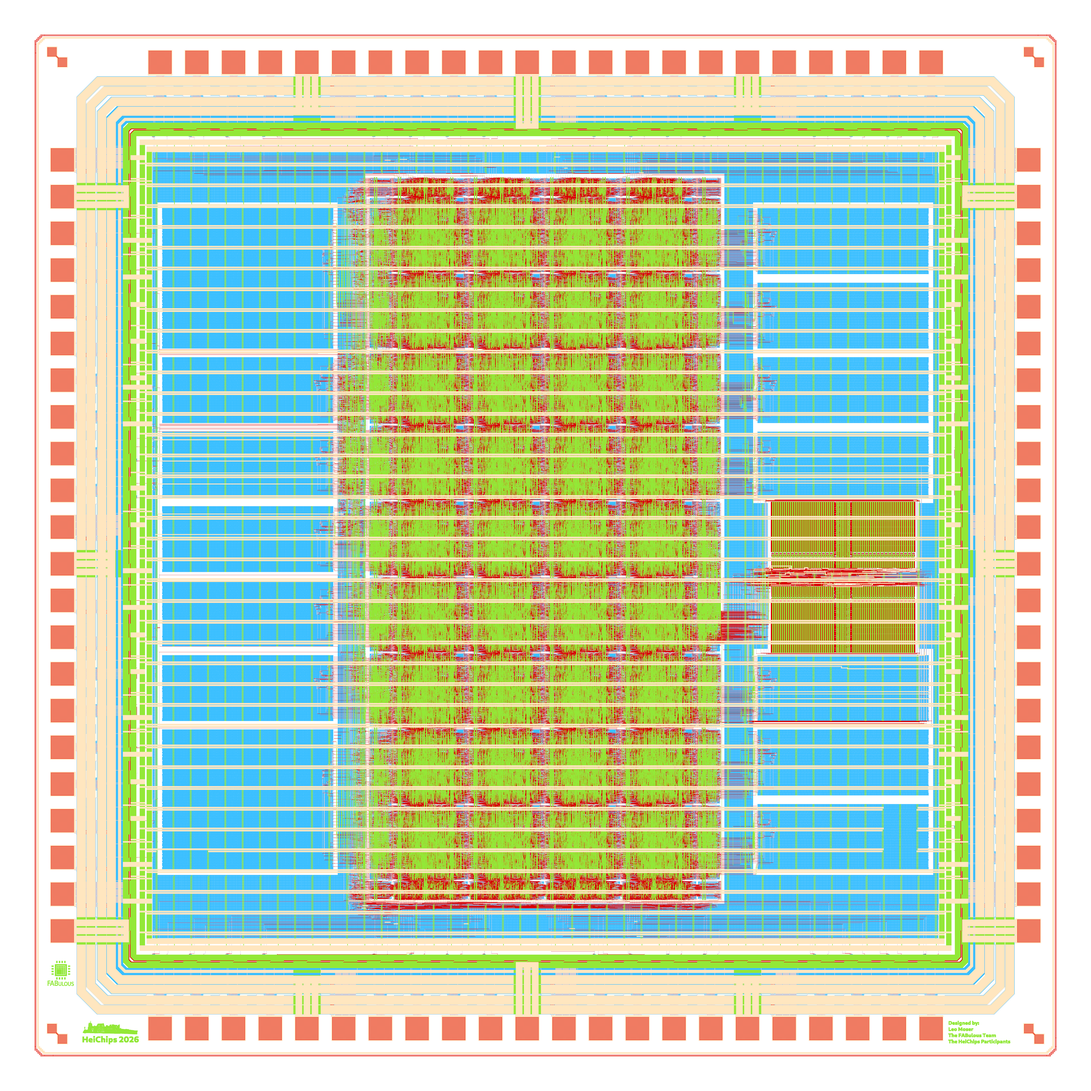
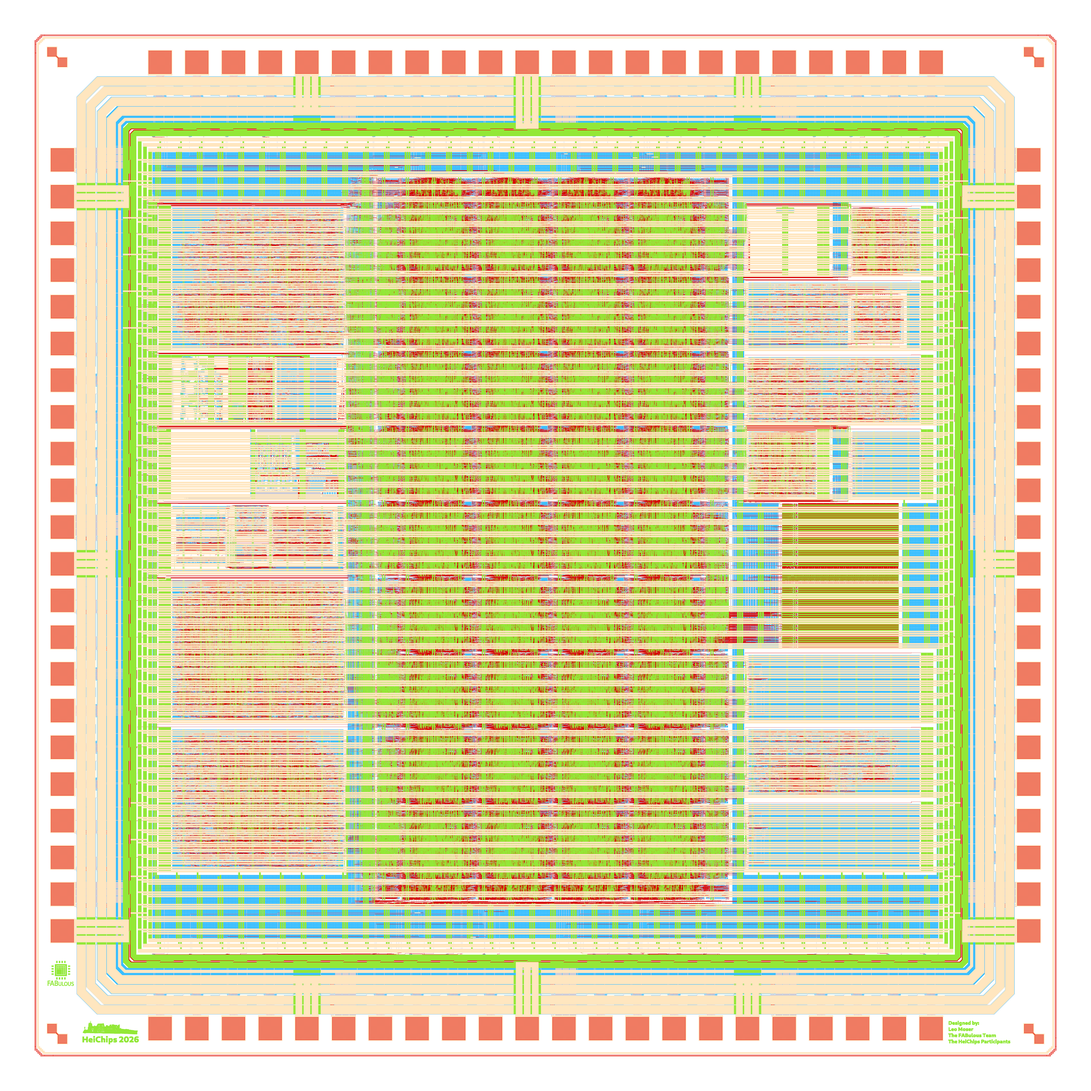
docs: update chip image

diff --git a/README.md b/README.md
@@ -8,8 +8,8 @@ Thanks to FABulous, the user bitstream for the FPGA can be generated using the Y
 The chip is designed with open source EDA tools and the [IHP Open Source PDK](https://github.com/IHP-GmbH/IHP-Open-PDK).
 
 <p align="center">
-  <a href="img/heichips26.png">
-    <img src="img/heichips26_small.png" alt="chip layout" width=40%>
+  <a href="img/heichips26_top.png">
+    <img src="img/heichips26_top_small.png" alt="chip layout" width=40%>
   </a>
 </p>
 
